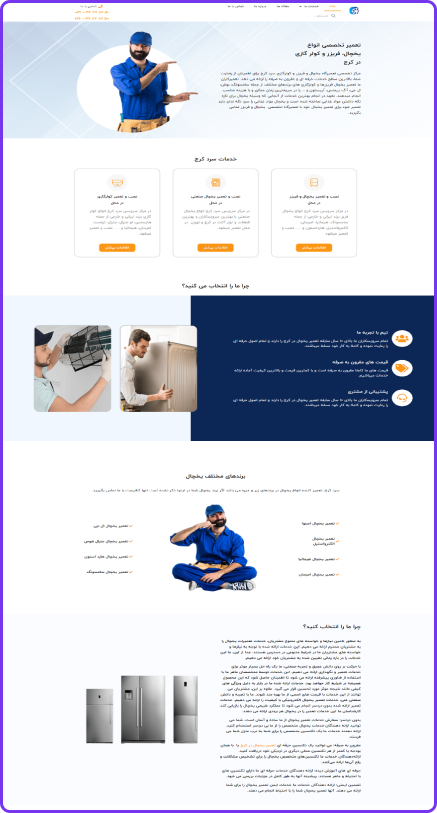
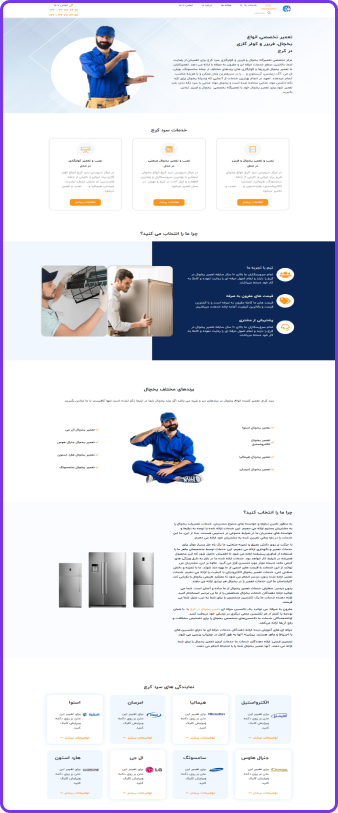
payan

diff --git a/src/components/Body/Body.jsx b/src/components/Body/Body.jsx
@@ -17,10 +17,17 @@ import oreng from '../../assets/pic/oreng.png';
 import shop from '../../assets/pic/shop.png';
 import componi from '../../assets/pic/componi.png';
 import web from '../../assets/pic/Webapp.png';
+
 import sard from '../../assets/pic/sard.png';
-import kavian from '../../assets/pic/kavian.png';
-import car from '../../assets/pic/car.png';
+import khavian from '../../assets/pic/khavian.png';
 import amoozesh from '../../assets/pic/amoozesh.png';
+import sard2 from '../../assets/pic/sard2.png';
+import sard3 from '../../assets/pic/sard3.png';
+
+import { Link} from "react-router-dom";
+
+import { HiOutlineArrowSmallLeft } from "react-icons/hi2";
+
 
 
 
@@ -68,9 +75,9 @@ export default function Body() {
 <img  className="h-[72px] w-[72px]" src={webapp} alt="" />
 <p className="text-[14px] font-bold">وب اپلیکشن</p>
         </div>
-        <div className="h-[128px] w-[128px] rounded-[5px] shadow-mybox bg-white grid place-items-center desktop:mb-[-23%]">
+        <div className="h-[128px] w-[128px] rounded-[5px] shadow-mybox bg-white grid place-items-center desktop:mb-[-23%]  ">
 
-<img  className="h-[72px] w-[72px]" src={mohtava} alt="" />
+<img  className="h-[72px] w-[72px]   " src={mohtava} alt="" />
 <p className="text-[14px] font-bold">تولید محتوا</p>
         </div>
         <div className="h-[128px] w-[128px] rounded-[5px] shadow-mybox bg-white grid place-items-center desktop:mb-[-13%]">
@@ -92,14 +99,14 @@ export default function Body() {
 
 
 
-<div className=" w-full h-[450px]  flex justify-around items-center " >
+<div className=" w-[85%] h-[450px] mx-auto  flex justify-between items-center  " >
 
 <div className=" h-[250px] w-[322px] text-black ">
-<p className=" font-bold text-[24px] max-mobile:mr-[45%] ">که هستیم؟</p>
+<p className=" font-bold text-[24px]   ">که هستیم؟</p>
 
-<p className="mt-[24px] text-[16px] w-[327px] h-[155px]   max-mobile:mt-[40%] max-mobile:mr-[45%] leading-[25px] ">
+<p className="mt-[24px] text-[16px] w-[327px] h-[155px]   max-mobile:mt-[40%]  leading-[25px] max-desktop:w-[290px] max-mtablet:w-[350px]     ">
 
-امروزه بیش تر کسب و کار ها اینترنتی شده است اگر شما همچنان تردید دارید به راه اندازی کسب و کار اینترنتی گروه پشتیبانی اُ یک درخدمت شما است تا بهترین راهنمایی را به شما انجام دهد . گروه اُ یک ۰ تا ۱۰۰ سایت شما را (پشتیبانی ، طراحی سایت ، سئو سایت ، UI & UX سایت و ...) انجام میدهد و همچنین با داشتن نمونه کار های متعدد باعث رضایت بسیاری از مراجعه کنندگان بوده است.
+امروزه بیش تر کسب و کار ها اینترنتی شده است اگر شما همچنان تردید دارید به راه اندازی کسب و کار اینترنتی، گروه پشتیبانی اُیک درخدمت شما است، تا بهترین راهنمایی را به شما ارائه نماید.<br/> گروه اُیک با در برداشتن بروزترین اطلاعات و بهترین متخصصان، سایت شما را  طراحی، سئو  ، UI & UX  وپشتیبانی می نماید.  همچنین با داشتن نمونه کارهای متعدد باعث رضایت مشتریان می گردد.
 
 </p>
 
@@ -107,7 +114,7 @@ export default function Body() {
 
 </div>
 
-<img src={about} alt=""  className=" h-[354px] w-[355px]  max-mobile:w-[192px] max-mobile:h-[165px] flex max-mobile:mt-[-50%] max-mobile:ml-[35%]"/>
+<img src={about} alt=""  className=" h-[354px] w-[355px] max-mtablet:h-[190px] max-mtablet:mt-[-60%] max-mtablet:mr-[-45%] max-desktop:mr-[15%]  "/>
 
 
 
@@ -220,7 +227,7 @@ export default function Body() {
 
 <img src={shop } alt="" className="absolute  w-[72px] h-[72px]  mt-[1%] mr-[-10%] max-desktop:ml-[9%] max-desktop:mt-[3%]  max-mtablet:mr-[-20%] "   />
 <p className=" absolute w-[177px] h-[86px]  text-[14px] font-normal mt-[11%] max-desktop:mt-[20%]  max-mtablet:mt-[35%]  ">
-در اینجا یک توضیح کوتاه نوشته می شوددر اینجا یک توضیح کوتاه نوشته می شود در اینجا یک توضیح کوتاه نوشته می شود
+طراحی فروشگاه اقدامی تخصصی است که با بکارگیری UI&UX باعث جذب مخاطبان و انتخال شما به عنوان بهترین است.
 </p>
 
 
@@ -235,7 +242,10 @@ export default function Body() {
 <p className="absolute text-[14px] font-bold  ml-[-8%] mt-[3%]  max-desktop:mt-[7%] max-mtablet:mr-[15%]  ">شرکتی</p>
 
 <p className=" absolute w-[177px] h-[86px] text-[14px] font-normal mt-[11%] max-desktop:mt-[20%]  max-mtablet:mt-[35%]    ">
-در اینجا یک توضیح کوتاه نوشته می شوددر اینجا یک توضیح کوتاه نوشته می شود در اینجا یک توضیح کوتاه نوشته می شود
+گروه  oyek می تواند همراهی مناسب برای حضور فعال و قدرتمند شما در فضای رقابتی باشد.
+
+
+
 </p>
 
 
@@ -258,7 +268,7 @@ export default function Body() {
 
 
 <p className=" absolute w-[177px] h-[86px] text-[14px] font-normal mt-[11%] max-desktop:mt-[20%] max-mtablet:mt-[35%]   ">
-در اینجا یک توضیح کوتاه نوشته می شوددر اینجا یک توضیح کوتاه نوشته می شود در اینجا یک توضیح کوتاه نوشته می شود
+        این برنامه نیازی به نصب ندارد و سریع از طریق مرورگر در اختیار کاربر قرار می گیرد و با توجه به در خواست شما طراحی می شود.
 </p>
 
 
@@ -276,14 +286,14 @@ export default function Body() {
 
 
 <div className="w-full h-[760px]  flex flex-wrap justify-between flex-row-reverse  ">
-<div className=" relative  w-[60%] h-[750px] max-mtablet:h-[400px]  flex top-[16px] " >
+<div className=" relative  w-[60%] h-[750px] max-mtablet:h-[400px]  flex top-[16px]  " >
 {/* avali */}
 <div className="absolute w-[319px] h-[176px] bg-white  left-40 z-20 top-[70%] 
 max-mtablet:w-[282px] max-mtablet:h-[117px] max-mtablet:left-10 rounded-[5px] max-mtablet:top-[70%] shadow-mybox p-[15px] ">
 
 <p className="font-bold text-[24px] text-black   max-mtablet:text-[14px] ">پشتیبانی سریع</p>
 
-<p className="font-normal text-[16px]  leading-[25px] max-mtablet:text-[14px] ">در اینجا یک توضیح کوتاه نوشته می شوددر اینجا یک توضیح کوتاه نوشته می شود در اینجا یک توضیح کوتاه نوشته می شود</p>
+<p className="font-normal text-[16px]  leading-[25px] max-mtablet:text-[14px] ">یکی از نکات موفقیت در هر فضا رقابتی ، پاسخگویی است که پشتیبانی قوی یکی از  افتخارات oyek است.</p>
 
 
 
@@ -297,7 +307,7 @@ max-mtablet:w-[282px] max-mtablet:h-[117px] max-mtablet:left-10 rounded-[5px] ma
 <div className="absolute w-[319px] h-[176px] bg-white  left-60 z-20 top-[40%] max-mtablet:w-[282px] max-mtablet:h-[117px]  max-mtablet:left-20 max-mtablet:top-[35%] shadow-mybox rounded-[5px]  p-[15px] ">
 <p className="font-bold text-[24px] text-black  max-mtablet:text-[14px] ">تیم حرفه ایی</p>
 
-<p className="font-normal text-[16px] leading-[25px] max-mtablet:text-[14px] ">در اینجا یک توضیح کوتاه نوشته می شوددر اینجا یک توضیح کوتاه نوشته می شود در اینجا یک توضیح کوتاه نوشته می شود</p>
+<p className="font-normal text-[16px] leading-[25px] max-mtablet:text-[14px] ">مهم ترین نکته ی موجود در یک شرکت طراحی سایت ،تیم متخصص با تجربه و اطلاعات بروز آن است.</p>
 
 
 </div>
@@ -309,7 +319,7 @@ max-mtablet:w-[282px] max-mtablet:h-[117px] max-mtablet:left-10 rounded-[5px] ma
 
 <p className="font-bold text-[24px] text-black   max-mtablet:text-[14px]">قیمت های مقرون به صرفه</p>
 
-<p className="font-normal text-[16px]  leading-[25px] max-mtablet:text-[14px]  ">در اینجا یک توضیح کوتاه نوشته می شوددر اینجا یک توضیح کوتاه نوشته می شود در اینجا یک توضیح کوتاه نوشته می شود</p>
+<p className="font-normal text-[16px]  leading-[25px] max-mtablet:text-[14px]  ">هزینه های طراحی سایت بسته به نیاز شما طبقه بندی شده و انتخاب هر پلن با توجه به سرمایه و  کسب و کارتان امکان پذیر است. </p>
 
 </div>
 
@@ -338,12 +348,10 @@ max-mtablet:w-[282px] max-mtablet:h-[117px] max-mtablet:left-10 rounded-[5px] ma
 
 
 
-<div className=" relative  w-[550px] h-[760px] flex  max-desktopl:w-[400px] max-desktop:w-[100%] max-desktop:h-[230px] ">
+<div className=" relative  w-[550px] h-[760px] flex mx-auto  max-desktopl:w-[400px] max-desktop:w-[90%] max-desktop:h-[230px]  max-mtablet:right-0  ">
 
-<p className=" absolute w-[450px] h-[326px] font-normal text-[16px] top-[40%] right-[10%]  max-desktopl:w-[350px]  max-desktopl:top-[35%] max-desktop:top-[5%] max-desktop:w-[90%] max-desktop:right-[5%] leading-[25px] " >
-
-لورم ایپسوم متن ساختگی با تولید سادگی نامفهوم از صنعت چاپ، و با استفاده از طراحان گرافیک است، چاپگرها و متون بلکه روزنامه و مجله در ستون و سطرآنچنان که لازم است، و برای شرایط فعلی تکنولوژی مورد نیاز، و کاربردهای متنوع با هدف بهبود ابزارهای کاربردی می باشد، کتابهای زیادی در شصت و سه درصد گذشته حال و آینده، شناخت فراوان جامعه و متخصصان را می طلبد، تا با نرم افزارها شناخت بیشتری را برای
-
+<p className=" absolute w-[450px] h-[326px] font-normal text-[16px] top-[40%]   max-desktopl:w-[300px] max-desktopl:right-20  max-desktopl:top-[35%] max-desktop:top-[5%] max-desktop:w-[70%] max-desktop:h-[200px]    leading-[25px]  max-desktop:right-14  max-mtablet:w-[100%] max-mtablet:right-2  " >
+از آنجا که طراحی سایت با استفاده از روشها و فنون متفاوتی انجام می شود نکات قابل تو جهی که در میزان دانش و تجارت حرفه ای در زمینه های گوناگون  <br/> web desing ، کیفیت پیاده سازی مطالب ،قابلیت انعطاف پذیری وب سایت، زمان تحویل پروژه، بررسی محتوای قابل اجرا ،سئو تخصصی ونحوه پشتیبانی  پروژه وجود دارد، باعث تفاوت در نتیجه ی کار طراحان oyek خواهد بود.
 
 </p>
 
@@ -356,46 +364,85 @@ max-mtablet:w-[282px] max-mtablet:h-[117px] max-mtablet:left-10 rounded-[5px] ma
 </div>
 
 
-<p className="  mt-[100px]  text-avaliye font-bold text-[24px]  flex justify-center  " >نمونه کار های اُیک</p>
+<p className="  mt-[70px]  text-avaliye font-bold text-[24px]  flex justify-center  " >نمونه کار های اُیک</p>
 
 
-<div className="w-[85%] max-mtablet:h-[270px]  mx-auto  flex   justify-between mt-[64px]">
-<div className="w-[500px] h-full mx-auto  max-desktopl:w-[300px] max-mtablet:h-[270px] "  >
+<div className="w-[95%]  mx-auto flex
+justify-between gap-3 mt-[56px] "   >
 
-<img src={sard} alt="" className="w-[500px] h-full max-desktopl:w-[300px] max-mtablet:h-[270px]  " />
-
-
-</div>
-<div className=" w-[500px] h-full mx-auto max-desktopl:w-[300px] max-mtablet:h-[270px]   "  >
-
-<img src={kavian} alt="" className="w-full h-full max-desktopl:w-[300px] max-mtablet:h-[270px]   " />
-
-</div>
-
-</div>
-
-<div className="mx-auto w-[64%] h-[502] mt-[10px] ">
-<img src={car} alt="" className="mx-auto w-full h-full  " />
+{/* avali */}
+<div>
+<img src={sard} alt="" />
 
 
 </div>
 
-<div className="w-[85%]  flex mx-auto justify-between  mt-[10px] ">
+{/* domvomi */}
 
+<div>
 
-<div className="w-[30%] h-[502px] mx-auto max-mtablet:h-[165px]   ">  
-<img src={amoozesh} alt="" className="w-full h-full max-mtablet:h-[165px]   "  />
-</div>
-
-
-
-<div className="w-[30%] h-[502px] mx-auto  max-mtablet:h-[165px]  "> 
-<img src={amoozesh} alt="" className="w-full h-full  max-mtablet:h-[165px]  "  /></div>
+<img src={amoozesh} alt="" />
 
 </div>
 
 
 
+{/* sevomi */}
+
+<div>
+
+<img src={khavian} alt="" className="w-[338px]  " />
+
+
+</div>
+
+
+
+
+
+</div>
+
+<div className="w-[95%]  mx-auto flex
+justify-between gap-3 mt-[7px] "   >
+
+<div>
+<img src={sard2} alt="" />
+
+
+</div>
+
+<div>
+<img src={sard3} alt="" />
+
+</div>
+
+
+
+
+</div>
+
+<ul>
+<li  >
+
+<Link to="/Khadamat" >
+<button className="w-[198px] h-[38px] bg-avaliye mx-auto flex mt-[56px] rounded-[5px] items-center p-[8px]  ">
+
+<p className="text-[14px] text-white font-normal   ">
+
+مشاهده نمونه کارهای بیشتر 
+</p>
+
+<HiOutlineArrowSmallLeft className=" text-[40px] text-white font-normal w-[20px] "   />
+
+</button>
+
+</Link>
+
+
+
+</li>
+
+</ul>
 
 
 

diff --git a/src/components/Footer/Footer.jsx b/src/components/Footer/Footer.jsx
@@ -9,7 +9,7 @@ const Footer = () => {
     return (
       <>
       
-<div className='  bg-sanaviye h-[500px] flex flex-wrap rounded-tr-[50%] rounded-tl-[50%] max-desktop:h-[750px] max-mtablet:h-[850px] max-mtablet:rounded-tl-[300px] max-mtablet:rounded-tr-[300px]  '  >
+<div className=' mt-[100px]  bg-sanaviye h-[500px] flex flex-wrap rounded-tr-[50%] rounded-tl-[50%] max-desktop:h-[750px] max-mtablet:h-[850px] max-mtablet:rounded-tl-[300px] max-mtablet:rounded-tr-[300px]  '  >
 
 <div className='   flex flex-wrap w-[85%] h-[250px] mx-auto justify-between mt-[15%] '>
 
@@ -20,8 +20,16 @@ const Footer = () => {
 <div className='w-[400px] h-[240px] mx-auto max-desktopl:w-[250px]  '>
 <img src={logo} alt="" className='h-[56px] mx-auto '  />
 
-<p className='mr-[24px] font-[400px]  text-[14px] p-[5%] ' >
-لورم ایپسوم متن ساختگی با تولید سادگی نامفهوم از صنعت چاپ، و با استفاده از طراحان گرافیک است، چاپگرها و متون بلکه روزنامه و مجله در ستون سطرآنچنان که لازم است، و برای شرایط تکنولوژی مور نیاز، و کاربردهای متنوع با هدف بهبود ابزارهای کاربردی می باشد
+<p className='mr-[24px] font-[400px]  text-[14px] p-[5%] '  > 
+<pre className=' font-bold  text-[16px]' >
+  تخصص   تجربه   کیفیت
+<br/>
+<br />
+  گروه نرم افزاری OYEK
+
+</pre>
+
+
 
 </p>
 
